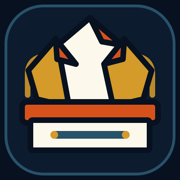
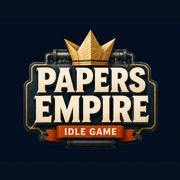
fix: restore the canonical painted brand (#21)

diff --git a/assets/css/experience-v4.css b/assets/css/experience-v4.css
@@ -158,17 +158,15 @@ html[data-experience="playing"] .primary-nav {
 html[data-experience="playing"] .header-brand {
   align-self: center;
   justify-content: center;
-  width: 52px;
+  width: 92px;
 }
 
 html[data-experience="playing"] .brand-picture {
-  display: none;
-}
-
-html[data-experience="playing"] .brand-app-mark {
   display: block;
-  width: 48px;
-  height: 48px;
+  position: static;
+  width: 86px;
+  height: 58px;
+  clip-path: none;
   filter: drop-shadow(0 5px 7px rgba(0, 0, 0, 0.32));
 }
 
@@ -363,11 +361,21 @@ html[data-experience="playing"] body {
   outline-offset: 4px;
 }
 
-.data-zone-brand-mark {
-  width: 52px;
-  height: 52px;
-  flex: 0 0 52px;
+.data-zone-brand-picture {
+  display: block;
+  width: 64px;
+  height: 64px;
+  flex: 0 0 64px;
+  overflow: hidden;
+  border-radius: 10px;
   filter: drop-shadow(0 7px 12px rgba(0, 4, 9, 0.38));
+}
+
+.data-zone-brand-mark {
+  display: block;
+  width: 100%;
+  height: 100%;
+  object-fit: contain;
 }
 
 .data-zone-brand-copy {
@@ -488,8 +496,8 @@ html[data-experience="playing"] body {
   right: clamp(0px, 5vw, 72px);
   width: clamp(150px, 19vw, 270px);
   aspect-ratio: 1;
-  background: url("../brand/data-science-zone-mark.svg") center / contain no-repeat;
-  opacity: 0.085;
+  background: url("../brand/data-science-zone-emblem-v2.webp") center / contain no-repeat;
+  opacity: 0.11;
   transform: translateY(-50%);
   pointer-events: none;
 }
@@ -1435,10 +1443,10 @@ html[data-experience="playing"] body {
     padding-block: 8px;
   }
 
-  .data-zone-brand-mark {
-    width: 48px;
-    height: 48px;
-    flex-basis: 48px;
+  .data-zone-brand-picture {
+    width: 58px;
+    height: 58px;
+    flex-basis: 58px;
   }
 
   .data-zone-header-actions {
@@ -1569,10 +1577,10 @@ html[data-experience="playing"] body {
     gap: 8px;
   }
 
-  .data-zone-brand-mark {
-    width: 44px;
-    height: 44px;
-    flex-basis: 44px;
+  .data-zone-brand-picture {
+    width: 50px;
+    height: 50px;
+    flex-basis: 50px;
   }
 
   .data-zone-brand-parent {

diff --git a/dashboard/index.html b/dashboard/index.html
@@ -6,7 +6,6 @@
   <meta name="viewport" content="width=device-width, initial-scale=1.0, viewport-fit=cover">
   <meta name="robots" content="noindex, follow">
   <meta name="theme-color" content="#0b1721">
-  <link rel="icon" type="image/svg+xml" href="/favicon.svg">
   <link rel="icon" type="image/png" sizes="32x32" href="/assets/images/favicon-32.png">
   <link rel="apple-touch-icon" href="/assets/images/apple-touch-icon.png">
   <link rel="preload" href="/assets/fonts/alfa-slab-one-latin.woff2" as="font" type="font/woff2" crossorigin>
@@ -27,7 +26,10 @@
     <div class="header-inner">
       <div class="header-top">
         <a class="header-home-link data-zone-brand" href="/" aria-label="Data Science Zone · Papers Empire">
-          <img class="data-zone-brand-mark" src="/assets/brand/data-science-zone-mark.svg" alt="" width="256" height="256">
+          <picture class="data-zone-brand-picture">
+            <source srcset="/assets/brand/data-science-zone-emblem-v2.webp" type="image/webp">
+            <img class="data-zone-brand-mark" src="/assets/brand/data-science-zone-emblem-v2.png" alt="" width="512" height="512" decoding="async">
+          </picture>
           <span class="data-zone-brand-copy">
             <span class="data-zone-brand-parent">Papers Empire</span>
             <span class="header-title" data-i18n="nav.dashboard">Data Science Zone</span>

diff --git a/index.html b/index.html
@@ -14,7 +14,6 @@
   <link rel="alternate" hreflang="de" href="https://papersempire.com/de/">
   <link rel="alternate" hreflang="lb" href="https://papersempire.com/lb/">
   <link rel="alternate" hreflang="x-default" href="https://papersempire.com/">
-  <link rel="icon" type="image/svg+xml" href="/favicon.svg">
   <link rel="icon" type="image/png" sizes="32x32" href="/assets/images/favicon-32.png">
   <link rel="apple-touch-icon" href="/assets/images/apple-touch-icon.png">
   <link rel="manifest" href="/site.webmanifest">
@@ -214,7 +213,6 @@
           <source srcset="/assets/brand/papers-empire-logo-v2.webp" type="image/webp">
           <img class="brand-lockup" src="/assets/brand/papers-empire-logo-v2.png" alt="" width="700" height="560" decoding="async" fetchpriority="high">
 </picture>
-        <img class="brand-app-mark" src="/favicon.svg" alt="" width="48" height="48" decoding="async">
         <span class="sr-only">Papers Empire</span>
 </a>
       <nav class="primary-nav" aria-label="Navigation principale" data-i18n-aria-label="nav.primaryLabel">

diff --git a/404.html b/404.html
@@ -6,7 +6,7 @@
   <meta name="viewport" content="width=device-width, initial-scale=1.0">
   <meta name="robots" content="noindex">
   <meta name="theme-color" content="#1a1230">
-  <link rel="icon" type="image/svg+xml" href="/favicon.svg">
+  <link rel="icon" type="image/png" sizes="32x32" href="/assets/images/favicon-32.png">
   <style>
     body {
       margin: 0;

diff --git a/assets/css/style.css b/assets/css/style.css
@@ -2930,10 +2930,6 @@ body {
   object-position: center;
 }
 
-.brand-app-mark {
-  display: none;
-}
-
 .primary-nav {
   display: flex;
   align-items: stretch;

diff --git a/docs/README.md b/docs/README.md
@@ -1,6 +1,6 @@
 # Papers Empire
 
-Papers Empire is a browser-based incremental game that runs entirely on the client side. The experience is intentionally light-hearted: you're modernising an industrial print shop while channeling the vibe of workplace sitcoms. The current release contract is **0.23.1 — Quality Pass V5**.
+Papers Empire is a browser-based incremental game that runs entirely on the client side. The experience is intentionally light-hearted: you're modernising an industrial print shop while channeling the vibe of workplace sitcoms. The current release contract is **0.23.2 — Canonical Brand Pass V5**.
 
 The UI is now split across dedicated HTML, CSS, and JavaScript assets for easier maintenance. Additional helper modules power the modifier builder math and god-mode utilities so they can be unit-tested in isolation.
 
@@ -65,6 +65,10 @@ Track meaningful milestones in the project:
   recouvrement de la console d'impression, catalogue desktop dédensifié,
   métriques du Dashboard non rognées, carte sociale et icônes installables
   réalignées sur la direction Production Twin.
+- **0.23.2** – « Canonical Brand Pass V5 » : le logo peint de la page d'accueil
+  devient l'unique source Papers Empire dans la landing, le jeu et les icônes
+  installables. Les pictogrammes vectoriels plats sont retirés ; la Data Science
+  Zone reçoit un emblème peint construit dans la même matière industrielle.
 
 When you make notable changes (new features, mechanics, UI improvements), append a new entry with an incremented version number and a short description of what changed.
 
@@ -73,7 +77,7 @@ When you make notable changes (new features, mechanics, UI improvements), append
 - Canonical domain: `https://papersempire.com/`. `index.html` embeds canonical + hreflang links (`?lang=en|de|lb` variants, FR default), Open Graph/Twitter cards, and a JSON-LD `@graph` (VideoGame + WebSite + Person author).
 - `robots.txt` (root) allows crawling and lists both sitemaps: `sitemap.xml` (game + language variants, with xhtml hreflang annotations) and `/docs/sitemap.xml` (generated by Retype).
 - The social card is a 1200x630 rendered screenshot of the current landing and live 3D campus, stored at `assets/images/social-card.jpg` and referenced with absolute URLs in Open Graph/Twitter meta tags and JSON-LD.
-- PNG icons (`favicon-32`, `apple-touch-icon` 180, `icon-192`, `icon-512`) are derived from the deterministic Production Twin master `assets/brand/papers-empire-app-mark-v2.svg`; `site.webmanifest` makes the game installable.
+- PNG icons (`favicon-32`, `apple-touch-icon` 180, `icon-192`, `icon-512`) are faithful crops and resizes of the painted homepage master `assets/brand/papers-empire-logo-v2.png`; `site.webmanifest` makes the game installable.
 - The GitHub Actions workflow (`.github/workflows/docs.yml`) builds the docs, bundles the game assets, copies `robots.txt`/`sitemap.xml`/`404.html`/`site.webmanifest`, and deploys everything via GitHub Pages (Pages source = GitHub Actions).
 - The separate `.github/workflows/vps-release.yml` workflow publishes that same `site/` tree and its route inventory as immutable, attested GHCR artifacts. It has no Atlas secret and never contacts the VPS.
 - The central [`nclsppr/vps-infra`](https://github.com/nclsppr/vps-infra) reconciler owns activation. Its best-effort GitHub Actions schedule is configured to run every ten minutes, but GitHub may delay scheduled executions. On each run, it resolves the exact `main` HEAD, requires the configured checks to pass, resolves `sha-<commit>` tags to digests, and asks Atlas to verify the attestations and HTTP contract again before a transactional switch. Publication alone cannot activate a version, and the resolver does not fall back to an older green commit.

diff --git a/docs/design-system.md b/docs/design-system.md
@@ -1,6 +1,6 @@
 # Design system V5 — « Production Twin · Precision Pass »
 
-Ce document formalise la direction de Papers Empire 0.23.1. Il remplace le
+Ce document formalise la direction de Papers Empire 0.23.2. Il remplace le
 gel « Atelier tamponné » par un système **révocable et challengé** : une règle
 visuelle est un choix de produit tant qu'elle améliore la lisibilité, le plaisir
 de jeu et la cohérence du monde, jamais une vérité à préserver pour elle-même.
@@ -161,24 +161,29 @@ rentabilité comptable. La télémétrie reste locale au navigateur, partielle a
 migration ou effacement du stockage, et ne permet aucune comparaison entre
 joueurs. Aucun indicateur synthétique ne doit masquer ces limites.
 
-### Sous-marque « Crown Analyzer »
+### Une signature analytique, pas une seconde marque
 
-La Data Science Zone possède une signature propre sans devenir une marque
-indépendante. Son emblème conserve la couronne de feuilles de Papers Empire et
-la monte sur un analyseur de production : rouleaux, feuille alimentée et une
-unique courbe cyan. Le cyan signale la mesure ; le laiton, l'ivoire, l'orange
-sécurité et l'acier nuit maintiennent la filiation avec l'usine.
+La source canonique de Papers Empire est le lockup peint visible sur la page
+d'accueil : `assets/brand/papers-empire-logo-v2.png`, avec son dérivé WebP. Il
+reste visible dans le jeu ; les favicons et icônes installables sont uniquement
+des recadrages et redimensionnements de cette image, jamais une reconstruction
+vectorielle simplifiée.
 
-- source vectorielle livrée : `assets/brand/data-science-zone-mark.svg` ;
-- exploration peinte conservée :
+La Data Science Zone possède un emblème contextuel sans devenir une marque
+indépendante. Il conserve la couronne dorée, la matière peinte, les rouleaux,
+le papier ivoire, l'acier nuit et la lumière du lockup canonique. Une unique
+courbe cyan signale la mesure sans introduire un autre vocabulaire graphique.
+
+- master peint conservé :
+  `assets/brand/sources/data-science-zone-emblem-v2-master.png` ;
+- dérivés actifs : `assets/brand/data-science-zone-emblem-v2.png` et `.webp` ;
+- exploration initiale conservée :
   `assets/brand/sources/data-science-zone-concept.png` ;
 - les répertoires `sources/` restent versionnés dans le dépôt mais sont exclus
   de l'archive publique ; seuls les dérivés utilisés partent en production ;
-- le nom « Data Science Zone » reste du texte HTML déterministe et le sous-titre
-  reste localisable ;
-- le favicon et la marque produit globale restent Papers Empire ;
+- le nom « Data Science Zone » reste du texte HTML déterministe et localisable ;
 - pas de cerveau, atome, base de données ou histogramme générique : le signe
-  doit raconter la mesure d'une production de papier.
+  raconte la mesure d'une production de papier.
 
 ## Ce qui est invariant, ce qui est révocable
 

diff --git a/docs/images-todo.md b/docs/images-todo.md
@@ -107,24 +107,25 @@ flat 2D, slightly uneven ink coverage`. Le visa rouge « débloqué » reste en 
 ## Factory Key Art — 0.20
 
 Assets générés avec le skill ImageGen intégré. Les illustrations peintes sont
-conservées en masters raster ; les marques simples sont reconstruites en SVG
-déterministe pour rester nettes et accessibles :
+conservées en masters raster ; les dérivés actifs restent rattachés à une source
+canonique explicite :
 
-- [x] `assets/brand/data-science-zone-mark.svg` — sous-marque « Crown Analyzer »
-      reconstruite en vectoriel déterministe après exploration ImageGen ;
-      couronne de papier, analyseur à rouleaux et signal cyan.
+- [x] `assets/brand/data-science-zone-emblem-v2.png` + `.webp` — emblème peint
+      512×512 aligné sur le lockup d'accueil : couronne dorée, analyseur à
+      rouleaux, papier ivoire et unique signal cyan.
+- [x] `assets/brand/sources/data-science-zone-emblem-v2-master.png` — master
+      1254×1254 conservé hors archive publique.
 - [x] `assets/brand/sources/data-science-zone-concept.png` — master d'exploration
       peint conservé comme source de direction, exclu de l'archive publique et
       jamais chargé par le site.
 
-- [x] `assets/brand/papers-empire-app-mark-v2.svg` — master vectoriel
-      déterministe de l'icône Production Twin : couronne de papier, presse
-      orange, tuyaux or, acier bleu nuit et fond plein. Il pilote le favicon et
-      les dérivés PNG navigateur, iOS et PWA.
-
 - [x] `assets/brand/papers-empire-logo-v2.png` + `.webp` — lockup exact
       « PAPERS EMPIRE / IDLE GAME », plaque d'usine bleu nuit, lettres crème
       extrudées, tuyaux, couronne de papier dorée et ruban orange, fond navy.
+- [x] `assets/images/{favicon-32,apple-touch-icon,icon-192,icon-512}.png` —
+      recadrages et redimensionnements directs de ce lockup peint. Les marks SVG
+      plats introduits en 0.23.0/0.23.1 ont été retirés des surfaces actives en
+      0.23.2.
 - [x] `assets/images/hero-horizon-wide.webp` — horizon panoramique peint,
       lumière matinale à gauche, ville européenne distante, cour industrielle
       libre pour accueillir la scène Three.js.

diff --git a/docs/ROADMAP.md b/docs/ROADMAP.md
@@ -33,6 +33,13 @@ et les données racontent la même usine : le **production twin**.
 - **0.21.1 — Branche canonique `main`** : workflows, Pages et réconciliation
   Atlas alignés.
 
+## 0.23.2 — Canonical Brand Pass V5
+
+- [x] Logo peint de la landing conservé après l'entrée dans le jeu.
+- [x] Favicons et icônes installables dérivés du même master peint.
+- [x] Emblème Data Science Zone aligné sur la matière et la profondeur du logo.
+- [x] Marks SVG plats retirés des surfaces actives et des contrats de test.
+
 ## 0.23.1 — Quality Pass V5
 
 - [x] Scène desktop agrandie sans relever le DPR ni le budget de rendu.
@@ -40,7 +47,8 @@ et les données racontent la même usine : le **production twin**.
 - [x] Console d'impression replacée dans le flux de l'Operations Deck.
 - [x] Catalogue desktop 3×2, légendes lisibles et miniatures contenues.
 - [x] Valeurs longues et glyphes de la Data Science Zone non rognés.
-- [x] Carte sociale et famille d'icônes actives alignées sur Production Twin.
+- [x] Carte sociale alignée sur Production Twin ; famille d'icônes corrigée à
+      partir du master peint canonique en 0.23.2.
 
 ## 0.23 — Precision Pass V5
 
@@ -49,7 +57,8 @@ et les données racontent la même usine : le **production twin**.
 - [x] Fallback visible en contraste élevé, perte de contexte et échec WebGL.
 - [x] Versionnement commun des CSS, JS, images, polices, imports Three.js,
       ressources runtime et icônes installables.
-- [x] Sous-marque vectorielle « Crown Analyzer » pour la Data Science Zone.
+- [x] Exploration « Crown Analyzer » livrée, puis remplacée en 0.23.2 par un
+      emblème peint cohérent avec le logo d'accueil.
 - [x] Admission papier masquée par une vraie fente et animation sans reflow.
 - [x] Rail de progression restructuré en liste lisible sur iPhone.
 - [x] Contrat de résilience exécuté dans les validations Pages et VPS.

diff --git a/docs/RELEASE_NOTES.md b/docs/RELEASE_NOTES.md
@@ -1,5 +1,20 @@
 # Release Notes
 
+## 0.23.2 — « Canonical Brand Pass V5 » : une seule source de marque — 2026-08-20
+
+- Le pictogramme vectoriel plat introduit dans le header de jeu, le favicon et
+  les icônes installables est retiré. La landing et le jeu affichent désormais
+  le même lockup peint `papers-empire-logo-v2` ; les PNG navigateur, iOS et PWA
+  sont des recadrages et redimensionnements fidèles de ce master.
+- La Data Science Zone abandonne son interprétation SVG simplifiée. Son nouvel
+  emblème reprend la couronne dorée, les rouleaux, l'acier travaillé, le papier
+  ivoire et la lumière du logo d'accueil ; seul le signal cyan distingue la
+  lecture analytique. Le master 1254 px reste hors build et les dérivés 512 px
+  PNG/WebP alimentent l'interface.
+- Les contrats de résilience interdisent maintenant le retour des anciens marks
+  plats, garantissent le logo peint en mode jeu et vérifient les dimensions du
+  fallback Data Science. Aucun comportement de simulation n'est modifié.
+
 ## 0.23.1 — « Quality Pass V5 » : chaque pixel compte — 2026-08-20
 
 - Sur MacBook et grand écran, la scène Three.js gagne en hauteur et peut

diff --git a/docs/DOCUMENTATION.md b/docs/DOCUMENTATION.md
@@ -69,8 +69,9 @@ flowchart LR
 - **Static UI:** validate HTML, CSS, identifiers, ARIA references and all four
   i18n catalogs before publication.
 - **Résilience UI:** `npm run ui:check` vérifie les contrats BFCache, fallback
-  contraste élevé/première frame, fente de presse, cache runtime et sous-marque
-  analytique. Pages et la release VPS l'exécutent avant leur build.
+  contraste élevé/première frame, fente de presse, cache runtime, source de
+  marque canonique et emblème analytique peint. Pages et la release VPS
+  l'exécutent avant leur build.
 - **Docs:** `npm run docs:build` generates the Retype site into `docs-site/` so CI/GitHub Pages can publish it.
 - **Limite actuelle:** le dépôt ne contient pas de suite navigateur complète.
   Les parcours clavier, Safari/iPhone et WebGL doivent donc encore être

diff --git a/README.md b/README.md
@@ -2,7 +2,7 @@
 
 All project documentation now lives inside the `docs/` directory and is published via Retype. Start with `docs/README.md` for the overview, and see `docs/AGENTS.md` for repo guidelines.
 
-Current release contract: **0.23.1 — Quality Pass V5**.
+Current release contract: **0.23.2 — Canonical Brand Pass V5**.
 
 ## Quick Links
 - [Docs Overview](docs/README.md)
